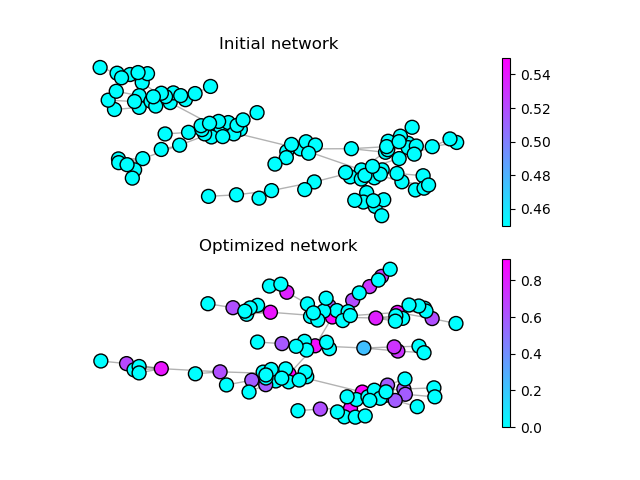
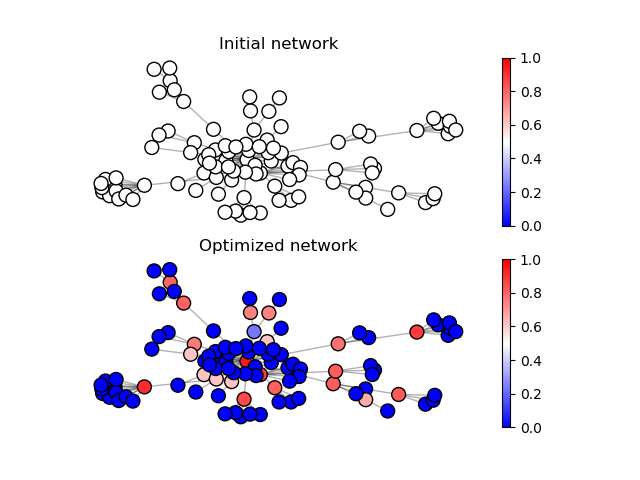
re-wrote network plotting function with same colorbar

diff --git a/utilities/plot.py b/utilities/plot.py
@@ -1,43 +1,57 @@
-import networkx as nx
-from matplotlib.pyplot import figure, draw, axis, show, cm, colorbar, Normalize, subplot, title, savefig
-# from matplotlib import animation
-# from utilities.utilities import min_steps
-# from copy import deepcopy
-from numpy import min, max
+from networkx import spring_layout, draw_networkx_nodes, draw_networkx_edges
+from matplotlib.pyplot import figure, draw, axis, show, cm, colorbar, Normalize, subplot, title, savefig, plot
 
 
 # Plot network
-def plot_optimized_network(network, index, blocking=True, save_plot=True):
+def plot_optimized_network(network, blocking=True, save_plot=True):
     _title = 'Network plot'
+    figure(_title)
 
-    network.calculate_weights()
     graph = network.network_plot
+    init_weights = network.init_weights
     weights = network.weights
+    plot_layout = spring_layout(graph)
 
-    if index == 1:
-        figure(_title)
-    subplot(2, 1, index)
+    min_val = 0
+    max_val = 1
 
-    if index == 1:
-        title('Initial network')
-    else:
-        title('Optimized network')
-
-    cmap = cm.cool
-    color_vals = cm.ScalarMappable(cmap=cmap, norm=Normalize(vmin=min(weights), vmax=max(weights)))
+    cmap = cm.bwr
+    color_vals = cm.ScalarMappable(cmap=cmap, norm=Normalize(vmin=min_val, vmax=max_val))
     color_vals._A = []
 
-    plot_layout = nx.spring_layout(graph)  # Calculate layout for nodes
-    nx.draw_networkx_edges(graph, plot_layout, alpha=.3)  # Plot edges
-    nx.draw_networkx_nodes(graph, plot_layout, node_size=100, edgecolors='k', node_color=network.weights, cmap=cm.cool)
-
-    draw()  # Matplotlib virtual draw
+    subplot(2, 1, 1)
+    title('Initial network')
     colorbar(color_vals)
+
+    draw_networkx_edges(graph, plot_layout, alpha=.3)
+    draw_networkx_nodes(graph, plot_layout, node_size=100, edgecolors='k', node_color=init_weights, cmap=cmap,
+                        vmin=min_val, vmax=max_val)
     axis('off')  # Disable axis
 
-    if save_plot and index == 2:
+    subplot(2, 1, 2)
+    title('Optimized network')
+    colorbar(color_vals)
+
+    draw_networkx_edges(graph, plot_layout, alpha=.3)
+    draw_networkx_nodes(graph, plot_layout, node_size=100, edgecolors='k', node_color=weights, cmap=cmap,
+                        vmin=min_val, vmax=max_val)
+    axis('off')
+    draw()
+
+    if save_plot:
         savefig('../results/optimized_network.png')
     show(block=blocking)  # Open matplotlib window
+
+
+def plot_exposures(exposure_set):
+    num_steps = str(len(exposure_set[0]))
+    _title = 'Network exposure over ' + num_steps + ' steps'
+
+    figure('Exposure')
+    for exposures in exposure_set:
+        plot(exposures)
+    savefig('../results/network_exposure_' + num_steps + '.png')
+    show()
 
 
 # def run_update(tmp, network, layout):

diff --git a/model/network.py b/model/network.py
@@ -1,19 +1,23 @@
 from typing import List
 from utilities.utilities import balls_per_node, balls_added, generate_plot_network, calculate_exposure
 from model.polya_node import polya_node
-from numpy import zeros
+from numpy import zeros, copy
 from utilities.io import save_network
 from random import random
+from utilities.plot import plot_optimized_network
+from networkx import spring_layout
+from model.optimize import optimize_initial
 
 
 class network:
     nodes: List[polya_node]
 
-    def __init__(self, n, fix_start=True):
-        self.network_plot = generate_plot_network(n)
+    def __init__(self, n, fix_start=True, graph=None):
+        self.network_plot = generate_plot_network(n) if graph is None else graph
+        self.graph_layout = None
         self.nodes = []
         self.weights = []
-        self.contagion = []
+        self.init_weights = []
         self.exposures = []
         self.node_exposures = zeros(n)
 
@@ -56,11 +60,22 @@ class network:
         for i in range(n):
             self.run_step()
 
-    def plot_network(self):
-        plot_network(self.network_plot, self.weights)
+    def plot_network(self, index):
+        if index == 1:
+            self.calculate_weights()
+            self.init_weights = copy(self.weights)
+        else:
+            self.calculate_weights()
+            self.graph_layout = spring_layout(self.network_plot)
+            plot_optimized_network(self)
 
     def export_network(self):
         save_network(self.network_plot)
+
+    def optimize_initial(self):
+        if self.steps > 0:
+            raise ValueError('Cannot optimize initial after steps were run')
+        optimize_initial(self)
 
     def calculate_weights(self):
         self.weights = zeros(self.n)
@@ -68,6 +83,13 @@ class network:
 
         for i, node in enumerate(self.nodes):
             self.weights[i] = node.red / (node.init_total + delta_balls)
+
+    def clear_network(self):
+        for i, node in enumerate(self.nodes):
+            self.nodes[i].clear_node()
+        self.steps = 0
+        self.exposures = []
+        self.calculate_exposure()
 
     # Utility function for starting iteration
     def __iter__(self):

diff --git a/model/polya_node.py b/model/polya_node.py
@@ -7,7 +7,6 @@ class polya_node:
         self.init_red = _red                     # Initial number of red balls
         self.init_black = _black                 # Initial number of black balls
         self.init_total = _red + _black
-        self.init_super_urn = self.init_total    # Total number of balls in super urn (base)
 
         self.red = _red                          # Running total of red balls
         self.black = _black                      # Running total of black balls
@@ -52,6 +51,11 @@ class polya_node:
     def lock_step(self):
         self.last_red = self.red
         self.last_black = self.black
+
+    def clear_node(self):
+        self.last_red = self.red = self.init_red
+        self.last_black = self.black = self.init_black
+        self.drawn_balls = []
 
     # Base method to allow iteration on object
     def __iter__(self):

diff --git a/execute/run_op_compare.py b/execute/run_op_compare.py
@@ -1,0 +1,21 @@
+from model.network import network
+from utilities.io import save_network, load_network
+from numpy import copy
+from utilities.plot import plot_exposures
+
+
+net = network(25)
+save_network(net)
+print('Network generated')
+net.plot_network(1)
+
+# net.run_n_steps(500)
+# default_exposure = copy(net.exposures)
+
+net.clear_network()
+net.optimize_initial()
+net.plot_network(2)
+
+# plot_exposures([default_exposure, net.exposures])
+
+

diff --git a/execute/run_optimization.py b/execute/run_optimization.py
@@ -1,12 +1,11 @@
 from model.network import network
 from model.optimize import optimize_initial
-from utilities.plot import plot_optimized_network
 
 net = network(100)
 print('Network generated')
-plot_optimized_network(net, 1, blocking=False)
+net.plot_network(1)
 
 
 optimize_initial(net)
 print('Optimization done.')
-plot_optimized_network(net, 2)
+net.plot_network(2)
